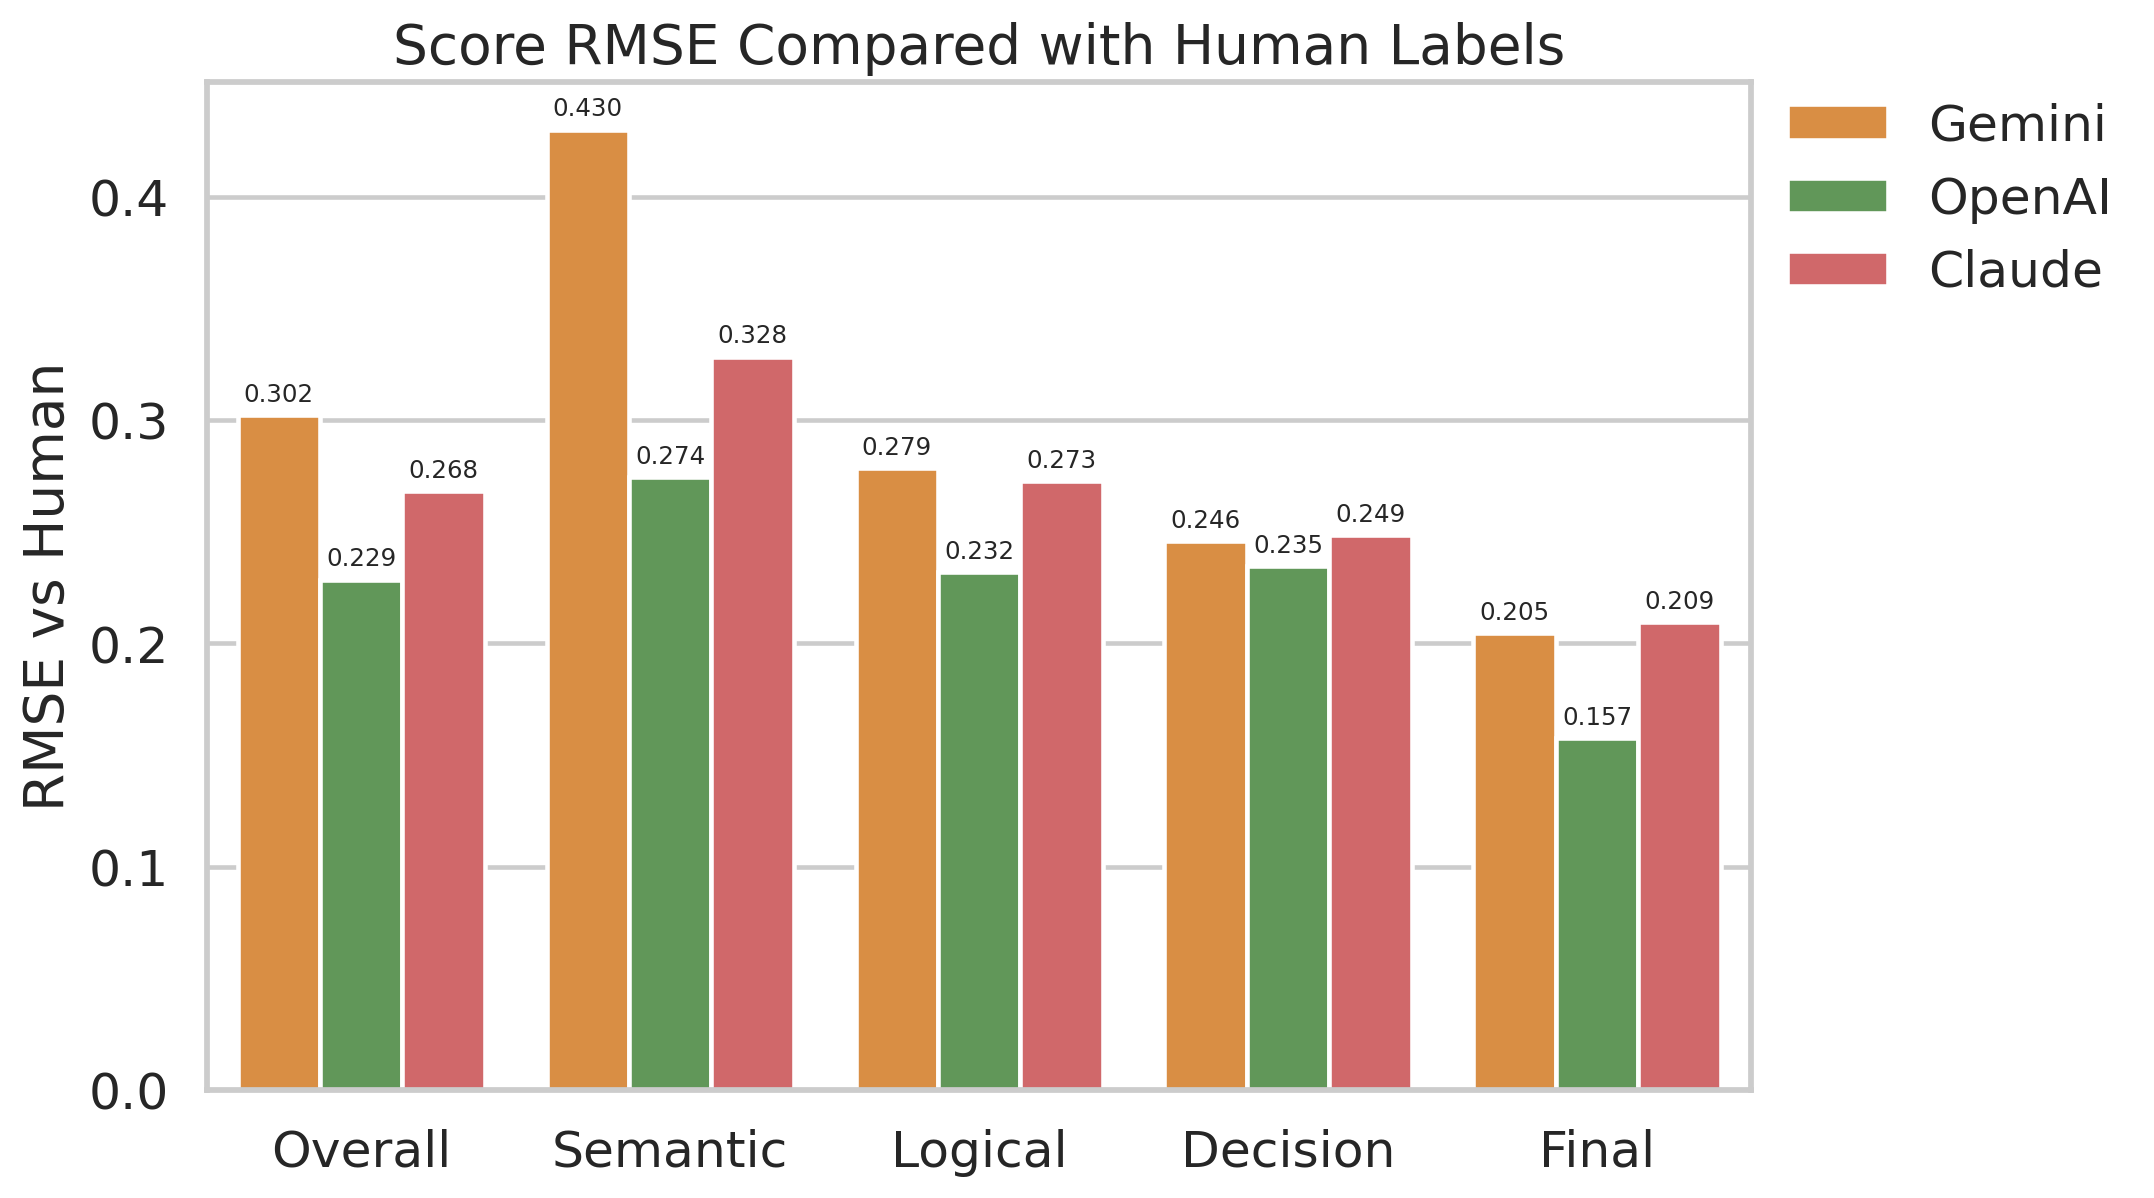
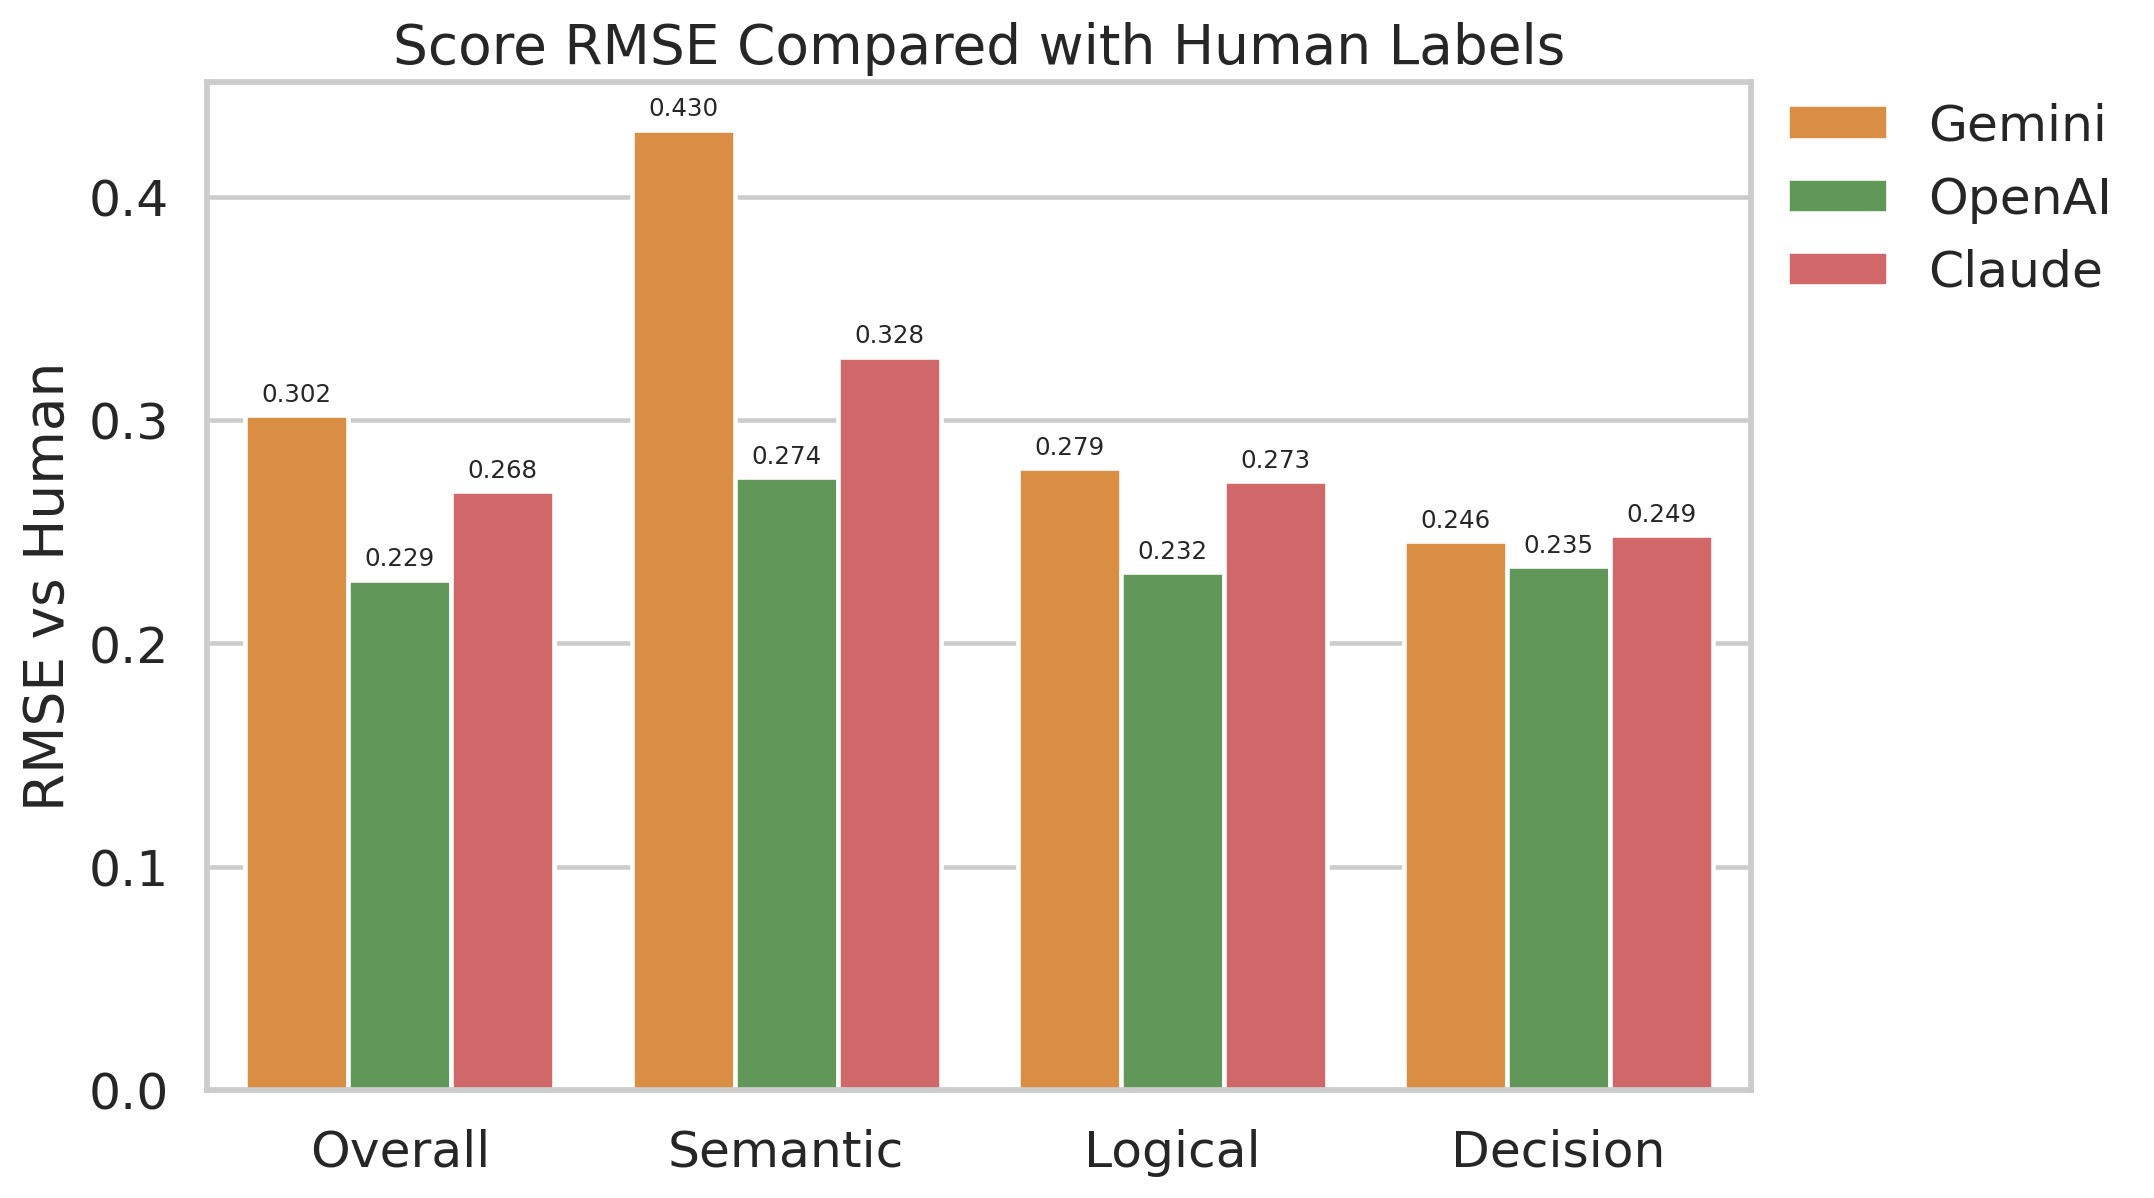
FinishedPlot of Improvement Results

diff --git a/plot_improvement.py b/plot_improvement.py
@@ -1,0 +1,273 @@
+from pathlib import Path
+
+import numpy as np
+import pandas as pd
+
+try:
+    import matplotlib.pyplot as plt
+    import seaborn as sns
+except ImportError as exc:
+    raise SystemExit(
+        "matplotlib and seaborn are required for plot_improvement.py. Install them with: pip install matplotlib seaborn"
+    ) from exc
+
+
+ROOT = Path(__file__).resolve().parent
+FIG_DIR = ROOT / "figures"
+FIG_DIR.mkdir(exist_ok=True)
+
+HUMAN_SOURCE = (ROOT / "Human" / "human_classified.csv", "latin-1")
+MODEL_SOURCES = {
+    "Gemini": {
+        "Un-Improved": (ROOT / "Gemini" / "Gemini_parse.csv", "utf-8"),
+        "Improved": (ROOT / "Improvement" / "Gemini" / "gemini_improved_parse.csv", "utf-8"),
+    },
+    "OpenAI": {
+        "Un-Improved": (ROOT / "Openai" / "openai_parse.csv", "utf-8"),
+        "Improved": (ROOT / "Improvement" / "Openai" / "openai_improved_parse.csv", "utf-8"),
+    },
+    "Claude": {
+        "Un-Improved": (ROOT / "Claude" / "claude_parse.csv", "utf-8"),
+        "Improved": (ROOT / "Improvement" / "Claude" / "claude_improved_parse.csv", "utf-8"),
+    },
+}
+
+SCORE_COLUMNS = ["semantic", "logical", "decision", "final_score"]
+RMSE_SCORE_COLUMNS = ["semantic", "logical", "decision"]
+MODEL_ORDER = ["Gemini", "OpenAI", "Claude"]
+VARIANT_ORDER = ["Un-Improved", "Improved"]
+VARIANT_COLORS = {
+    "Un-Improved": "#F28E2B",
+    "Improved": "#4E79A7",
+}
+RMSE_ORDER = ["Overall", "Semantic", "Logical", "Decision"]
+
+sns.set_theme(style="whitegrid", context="talk")
+
+
+def load_csv(path: Path, encoding: str) -> pd.DataFrame:
+    df = pd.read_csv(path, encoding=encoding)
+    df["video_id"] = df["video_id"].astype(str).str.strip()
+    df["is_poisoned"] = (
+        df["is_poisoned"].astype(str).str.strip().str.upper().map({"TRUE": True, "FALSE": False})
+    )
+    df["attack_level"] = df["attack_level"].astype(str).str.strip()
+    for col in SCORE_COLUMNS:
+        df[col] = pd.to_numeric(df[col], errors="coerce")
+    return df[["video_id", "is_poisoned", "attack_level", *SCORE_COLUMNS]].sort_values("video_id")
+
+
+def rmse(series_a: pd.Series, series_b: pd.Series) -> float:
+    diff = series_a - series_b
+    return float(np.sqrt(np.mean(np.square(diff))))
+
+
+def compute_provider_metrics(human: pd.DataFrame, provider: str, variant: str, df: pd.DataFrame) -> dict:
+    true_rate = float(df["is_poisoned"].mean() * 100.0)
+
+    merged = human.merge(df, on="video_id", suffixes=("_human", "_model"), how="inner")
+    samples = len(merged)
+    poisoned_accuracy = float(
+        (merged["is_poisoned_human"] == merged["is_poisoned_model"]).mean() * 100.0
+    )
+    attack_accuracy = float(
+        (merged["attack_level_human"] == merged["attack_level_model"]).mean() * 100.0
+    )
+
+    component_rmses = {
+        col: rmse(merged[f"{col}_human"], merged[f"{col}_model"])
+        for col in RMSE_SCORE_COLUMNS
+    }
+    all_human_scores = merged[[f"{col}_human" for col in RMSE_SCORE_COLUMNS]].to_numpy().reshape(-1)
+    all_model_scores = merged[[f"{col}_model" for col in RMSE_SCORE_COLUMNS]].to_numpy().reshape(-1)
+    overall_rmse = float(np.sqrt(np.mean(np.square(all_human_scores - all_model_scores))))
+    semantic_rmse = component_rmses["semantic"]
+    logical_rmse = component_rmses["logical"]
+    decision_rmse = component_rmses["decision"]
+
+    return {
+        "provider": provider,
+        "variant": variant,
+        "samples": samples,
+        "true_rate_pct": true_rate,
+        "poisoned_accuracy_pct": poisoned_accuracy,
+        "attack_level_accuracy_pct": attack_accuracy,
+        "overall_rmse": overall_rmse,
+        "semantic_rmse": semantic_rmse,
+        "logical_rmse": logical_rmse,
+        "decision_rmse": decision_rmse,
+    }
+
+
+def build_metrics() -> pd.DataFrame:
+    human = load_csv(*HUMAN_SOURCE)
+    records = []
+
+    for provider in MODEL_ORDER:
+        for variant in ["Un-Improved", "Improved"]:
+            records.append(
+                compute_provider_metrics(
+                    human,
+                    provider,
+                    variant,
+                    load_csv(*MODEL_SOURCES[provider][variant]),
+                )
+            )
+
+    return pd.DataFrame(records)
+
+
+def annotate_bars(ax, fmt: str, offset: float) -> None:
+    for patch in ax.patches:
+        value = patch.get_height()
+        if not np.isfinite(value) or value <= 0:
+            continue
+        ax.text(
+            patch.get_x() + patch.get_width() / 2,
+            value + offset,
+            format(value, fmt),
+            ha="center",
+            va="bottom",
+            fontsize=8,
+        )
+
+
+def plot_true_rate(metrics: pd.DataFrame) -> None:
+    fig, ax = plt.subplots(figsize=(10.8, 5.6))
+    sns.barplot(
+        data=metrics,
+        x="provider",
+        y="true_rate_pct",
+        hue="variant",
+        order=MODEL_ORDER,
+        hue_order=VARIANT_ORDER,
+        palette=VARIANT_COLORS,
+        ax=ax,
+    )
+    ax.set_ylim(0, 100)
+    ax.set_xlabel("")
+    ax.set_ylabel("True Rate (%)")
+    ax.set_title("True Rate: Un-Improved vs Improved")
+    ax.legend(frameon=False, loc="upper left", bbox_to_anchor=(1.01, 1.0), borderaxespad=0.0)
+    annotate_bars(ax, ".1f", 1.2)
+    fig.tight_layout(rect=(0, 0, 0.86, 1))
+    fig.savefig(FIG_DIR / "improvement_true_rate_comparison.png", dpi=220, bbox_inches="tight")
+    plt.close(fig)
+
+
+def plot_accuracy(metrics: pd.DataFrame) -> None:
+    fig, axes = plt.subplots(1, 2, figsize=(15.8, 5.8), sharey=True)
+    plot_specs = [
+        ("poisoned_accuracy_pct", "Label Accuracy"),
+        ("attack_level_accuracy_pct", "Attack-Level Accuracy"),
+    ]
+
+    for ax, (col, title) in zip(axes, plot_specs):
+        sns.barplot(
+            data=metrics,
+            x="provider",
+            y=col,
+            hue="variant",
+            order=MODEL_ORDER,
+            hue_order=VARIANT_ORDER,
+            palette=VARIANT_COLORS,
+            ax=ax,
+        )
+        ax.set_ylim(0, 105)
+        ax.set_xlabel("")
+        ax.set_ylabel("Agreement with Human (%)")
+        ax.set_title(title)
+        if ax.legend_ is not None:
+            ax.legend_.remove()
+        annotate_bars(ax, ".1f", 1.0)
+
+    fig.suptitle("Agreement with Human Labels: Un-Improved vs Improved", y=1.03)
+    handles, labels = axes[0].get_legend_handles_labels()
+    fig.legend(handles, labels, frameon=False, loc="center right", bbox_to_anchor=(1.0, 0.5))
+    fig.tight_layout(rect=(0, 0, 0.88, 0.98))
+    fig.savefig(FIG_DIR / "improvement_accuracy_vs_human.png", dpi=220, bbox_inches="tight")
+    plt.close(fig)
+
+
+def plot_rmse(metrics: pd.DataFrame) -> None:
+    rmse_cols = {
+        "overall_rmse": "Overall",
+        "semantic_rmse": "Semantic",
+        "logical_rmse": "Logical",
+        "decision_rmse": "Decision",
+    }
+    plot_df = metrics.melt(
+        id_vars=["provider", "variant"],
+        value_vars=list(rmse_cols.keys()),
+        var_name="rmse_type",
+        value_name="rmse",
+    )
+    plot_df["rmse_type"] = plot_df["rmse_type"].map(rmse_cols)
+
+    fig, axes = plt.subplots(2, 2, figsize=(15.8, 9.5), sharey=True)
+    axes = axes.flatten()
+
+    for ax, rmse_type in zip(axes, RMSE_ORDER):
+        subset = plot_df[plot_df["rmse_type"] == rmse_type].copy()
+        sns.barplot(
+            data=subset,
+            x="provider",
+            y="rmse",
+            hue="variant",
+            order=MODEL_ORDER,
+            hue_order=VARIANT_ORDER,
+            palette=VARIANT_COLORS,
+            ax=ax,
+        )
+        ax.set_xlabel("")
+        ax.set_ylabel("RMSE vs Human")
+        ax.set_title(rmse_type)
+        if ax.legend_ is not None:
+            ax.legend_.remove()
+        annotate_bars(ax, ".3f", 0.004)
+
+    fig.suptitle("Score RMSE: Un-Improved vs Improved", y=1.02)
+    handles, labels = axes[0].get_legend_handles_labels()
+    fig.legend(handles, labels, frameon=False, loc="center right", bbox_to_anchor=(1.0, 0.5))
+    fig.tight_layout(rect=(0, 0, 0.88, 0.98))
+    fig.savefig(FIG_DIR / "improvement_rmse_vs_human.png", dpi=220, bbox_inches="tight")
+    plt.close(fig)
+
+
+def save_summary(metrics: pd.DataFrame) -> None:
+    summary = metrics[
+        [
+            "provider",
+            "variant",
+            "samples",
+            "true_rate_pct",
+            "poisoned_accuracy_pct",
+            "attack_level_accuracy_pct",
+            "overall_rmse",
+            "semantic_rmse",
+            "logical_rmse",
+            "decision_rmse",
+        ]
+    ].copy()
+    summary.to_csv(FIG_DIR / "improvement_metrics_summary.csv", index=False)
+
+
+def main() -> None:
+    metrics = build_metrics()
+    plot_true_rate(metrics)
+    plot_accuracy(metrics)
+    plot_rmse(metrics)
+    save_summary(metrics)
+
+    print(f"Saved plots to: {FIG_DIR}")
+    for filename in [
+        "improvement_true_rate_comparison.png",
+        "improvement_accuracy_vs_human.png",
+        "improvement_rmse_vs_human.png",
+        "improvement_metrics_summary.csv",
+    ]:
+        print(f" - {FIG_DIR / filename}")
+
+
+if __name__ == "__main__":
+    main()

diff --git a/plot.py b/plot.py
@@ -223,7 +223,7 @@ def plot_rmse(metrics: pd.DataFrame) -> None:
             "semantic_rmse": "Semantic",
             "logical_rmse": "Logical",
             "decision_rmse": "Decision",
-            "final_score_rmse": "Final",
+            # "final_score_rmse": "Final",
         }
     )
 
